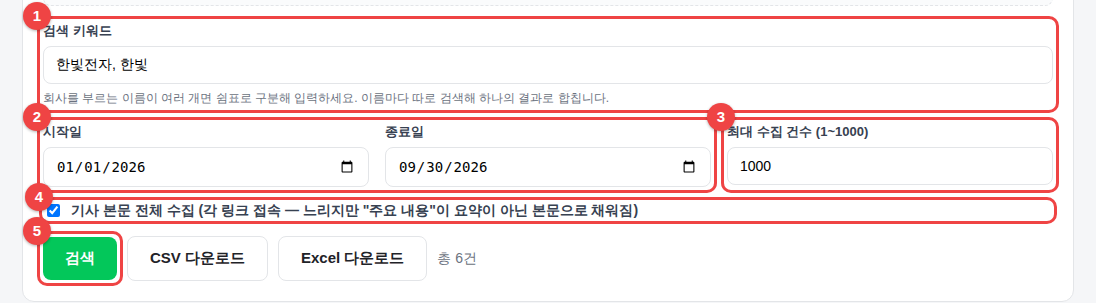
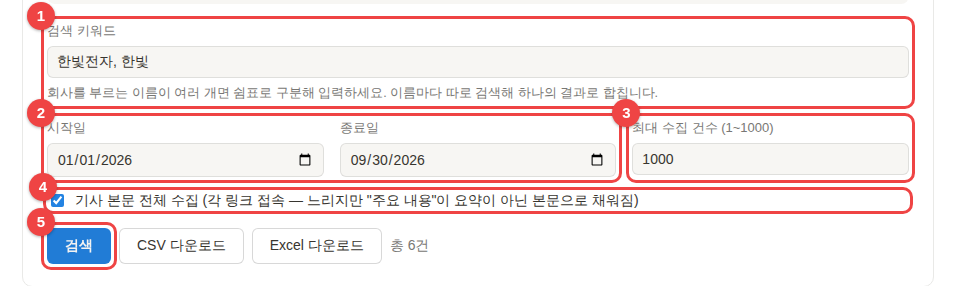
Notion-style UI refresh; guide notes results need a final review
Claude-Session: https://claude.ai/code/session_01SBpiC4RSoDx8bXpzWaJpnj

Changed region(s): [[0.0, 0.0, 0.9707, 0.951], [0.364, 0.5315, 0.455, 0.5874], [0.3033, 0.5315, 0.3337, 0.5874]]

diff --git a/docs/index.html b/docs/index.html
@@ -6,100 +6,117 @@
 <title>네이버 뉴스 검색 정리 툴</title>
 <link rel="icon" type="image/svg+xml" href="favicon.svg">
 <link rel="apple-touch-icon" href="apple-touch-icon.png">
-<meta name="theme-color" content="#03c75a">
+<meta name="theme-color" content="#ffffff">
+<link rel="stylesheet" href="https://cdn.jsdelivr.net/gh/orioncactus/pretendard@v1.3.9/dist/web/variable/pretendardvariable-dynamic-subset.min.css">
 <style>
-  :root { --brand:#03c75a; --bg:#f5f6f8; --line:#e3e5e8; --muted:#6b7280; }
+  /* 노션 느낌: 흰 바탕, 따뜻한 회색 글자·선, 절제된 강조색, 배경색 콜아웃 */
+  :root { --text:#37352f; --muted:#787774; --line:#e9e9e7; --hover:#f1f1ef; --soft:#f7f6f3;
+          --accent:#2383e2; --brand:#03c75a;
+          --purple:#6940a5; --purple-bg:#f6f3f9; --purple-line:#e4dcef;
+          --blue-bg:#e7f3f8; --blue-tx:#1f5f8b; --red-bg:#fdebec; --red-tx:#9f2f2d;
+          --yellow-bg:#fbf3db; --yellow-tx:#7a5a12; }
   * { box-sizing: border-box; }
   [hidden] { display:none !important; }
-  body { margin:0; font-family:-apple-system,BlinkMacSystemFont,"Malgun Gothic","맑은 고딕",sans-serif;
-         background:var(--bg); color:#1f2328; }
-  header { background:var(--brand); color:#fff; padding:18px 24px; font-size:20px; font-weight:700;
-           display:flex; align-items:center; gap:10px; }
-  header .logo { width:30px; height:30px; border-radius:7px; box-shadow:0 0 0 2px rgba(255,255,255,.55); }
-  .wrap { max-width:1100px; margin:0 auto; padding:24px; }
-  .card { background:#fff; border:1px solid var(--line); border-radius:12px; padding:20px; margin-bottom:20px; }
-  label { display:block; font-size:13px; font-weight:600; margin-bottom:6px; color:#374151; }
-  input[type=text],input[type=password],input[type=date],input[type=number] {
-    width:100%; padding:10px 12px; border:1px solid var(--line); border-radius:8px; font-size:14px; }
+  body { margin:0; background:#fff; color:var(--text); -webkit-font-smoothing:antialiased;
+         font-family:"Pretendard Variable",Pretendard,-apple-system,BlinkMacSystemFont,"Segoe UI","Malgun Gothic","맑은 고딕",sans-serif; }
+  .shell { max-width:960px; margin:0 auto; padding:0 24px; }
+  header.shell { padding-top:44px; padding-bottom:6px; }
+  header .logo { width:52px; height:52px; border-radius:12px; display:block; margin-bottom:14px; }
+  header h1 { margin:0; font-size:32px; font-weight:700; letter-spacing:-.02em; }
+  header .sub { margin-top:6px; color:var(--muted); font-size:15px; }
+  .wrap { max-width:960px; margin:0 auto; padding:24px 24px 64px; }
+  .card { background:#fff; border:1px solid var(--line); border-radius:10px; padding:22px 24px; margin-bottom:18px; }
+  label { display:block; font-size:13px; font-weight:500; margin-bottom:6px; color:var(--muted); }
+  input[type=text],input[type=password],input[type=date],input[type=number],select {
+    width:100%; padding:8px 10px; border:0; border-radius:6px; font:inherit; font-size:14px; color:var(--text);
+    background:var(--soft); box-shadow:inset 0 0 0 1px rgba(15,15,15,.1); transition:box-shadow .12s, background .12s; }
+  input:focus, select:focus { outline:0; background:#fff; box-shadow:inset 0 0 0 1px var(--accent), 0 0 0 3px rgba(35,131,226,.18); }
   .row { display:flex; gap:16px; flex-wrap:wrap; }
   .row > div { flex:1; min-width:160px; }
-  .cred { border:1px dashed var(--line); border-radius:8px; padding:14px; margin-bottom:16px; background:#fafbfc; }
-  summary { cursor:pointer; font-weight:600; font-size:13px; color:#374151; }
-  .chk { display:flex; align-items:center; gap:8px; margin-top:14px; font-size:14px; }
-  .chk input { width:auto; }
-  button { background:var(--brand); color:#fff; border:0; border-radius:8px; padding:12px 22px;
-           font-size:15px; font-weight:700; cursor:pointer; }
-  button:disabled { opacity:.5; cursor:not-allowed; }
-  button.ghost { background:#fff; color:#1f2328; border:1px solid var(--line); }
-  .actions { display:flex; gap:10px; align-items:center; margin-top:16px; flex-wrap:wrap; }
-  .hint { font-size:12px; color:var(--muted); margin-top:6px; }
-  .warn { background:#fff7ed; border:1px solid #fed7aa; color:#9a3412; padding:12px; border-radius:8px;
-          font-size:13px; margin-bottom:16px; }
-  table { width:100%; border-collapse:collapse; font-size:13px; }
-  th,td { border-bottom:1px solid var(--line); padding:10px; text-align:left; vertical-align:top; }
-  th { background:#f9fafb; font-size:12px; color:var(--muted); position:sticky; top:0; }
-  td.body { max-width:480px; white-space:pre-wrap; color:#374151; }
+  .cred { border-radius:8px; padding:16px; margin-bottom:18px; background:var(--soft); }
+  .cred input { background:#fff; }
+  summary { cursor:pointer; font-weight:500; font-size:13px; color:var(--text); }
+  .chk { display:flex; align-items:center; gap:8px; margin-top:14px; font-size:14px; color:var(--text); }
+  .chk input { width:auto; accent-color:var(--accent); }
+  button { background:var(--accent); color:#fff; border:0; border-radius:6px; padding:9px 18px; font:inherit;
+           font-size:14px; font-weight:600; cursor:pointer; transition:background .12s, filter .12s; }
+  button:hover:not(:disabled) { filter:brightness(.94); }
+  button:disabled { opacity:.45; cursor:not-allowed; }
+  button.ghost { background:#fff; color:var(--text); box-shadow:inset 0 0 0 1px rgba(15,15,15,.16); font-weight:500; }
+  button.ghost:hover:not(:disabled) { background:var(--hover); filter:none; }
+  .actions { display:flex; gap:8px; align-items:center; margin-top:18px; flex-wrap:wrap; }
+  .hint { font-size:12.5px; color:var(--muted); margin-top:6px; line-height:1.55; }
+  .warn { background:var(--yellow-bg); color:var(--yellow-tx); padding:12px 14px; border-radius:6px;
+          font-size:13.5px; margin-bottom:16px; line-height:1.55; }
+  table { width:100%; border-collapse:collapse; font-size:13.5px; }
+  th,td { border-bottom:1px solid var(--line); padding:9px 12px; text-align:left; vertical-align:top; }
+  th { background:#fbfbfa; font-size:12px; font-weight:500; color:var(--muted); position:sticky; top:0; }
+  tbody tr:hover td { background:#fbfbfa; }
+  td.body { max-width:480px; white-space:pre-wrap; color:#54524c; }
   .tablewrap { max-height:560px; overflow:auto; border:1px solid var(--line); border-radius:8px; }
-  a { color:#0969da; text-decoration:none; }
-  .spin { display:inline-block; width:16px; height:16px; border:2px solid #fff; border-top-color:transparent;
-          border-radius:50%; animation:sp .8s linear infinite; vertical-align:middle; }
+  a { color:var(--text); text-decoration:underline; text-decoration-color:rgba(55,53,47,.3); text-underline-offset:2px; }
+  a:hover { text-decoration-color:var(--text); }
+  .spin { display:inline-block; width:14px; height:14px; border:2px solid #fff; border-top-color:transparent;
+          border-radius:50%; animation:sp .8s linear infinite; vertical-align:-2px; }
   @keyframes sp { to { transform:rotate(360deg); } }
   .count { font-size:14px; color:var(--muted); }
-  select { width:100%; padding:10px 12px; border:1px solid var(--line); border-radius:8px; font-size:14px; background:#fff; }
-  h3 { margin:0 0 4px; font-size:16px; }
-  .stats { font-size:13px; color:#374151; background:#f9fafb; border:1px solid var(--line); border-radius:8px;
-           padding:10px 12px; margin-top:14px; }
-  /* AI 분석용 내보내기: 검색(흰색)과 구분되도록 보라색 계열 음영 */
-  .card.ai { background:#f5f3ff; border-color:#ddd6fe; }
-  .card.ai h3 { color:#5b21b6; }
-  .card.ai input, .card.ai select { border-color:#ddd6fe; background:#fff; }
-  .card.ai .stats { background:#fff; border-color:#ddd6fe; }
-  .card.ai button { background:#7c3aed; }
-  .card.ai button.ghost { background:#fff; color:#5b21b6; border-color:#c4b5fd; }
-  /* 배포용(corp) 모드: 탭 / 키 입력 / 이용 안내 */
-  .tabs { background:#fff; border-bottom:1px solid var(--line); padding:0 24px; display:flex; gap:4px; }
-  .tabs button { background:none; color:var(--muted); border:0; border-bottom:3px solid transparent; border-radius:0;
-                 padding:14px 16px; font-size:15px; }
-  .tabs button.active { color:#1f2328; border-bottom-color:var(--brand); }
-  .keyok { color:#047857; font-weight:600; }
-  .guide h2 { font-size:18px; margin:0 0 12px; }
-  .guide h4 { font-size:15px; margin:18px 0 6px; }
-  .guide p, .guide li { font-size:14px; line-height:1.7; color:#374151; }
-  .guide ol, .guide ul { padding-left:20px; margin:6px 0; }
-  .guide code { background:#f3f4f6; padding:1px 5px; border-radius:4px; font-size:13px; }
+  h2 { font-size:20px; font-weight:700; letter-spacing:-.01em; }
+  h3 { margin:0 0 4px; font-size:16px; font-weight:700; }
+  .stats { font-size:13px; color:var(--text); background:var(--soft); border-radius:6px; padding:10px 12px; margin-top:14px; }
+  /* AI 분석용 내보내기: 검색(흰색)과 구분되도록 연보라 배경 */
+  .card.ai { background:var(--purple-bg); border-color:var(--purple-line); }
+  .card.ai h3 { color:var(--purple); }
+  .card.ai input, .card.ai select { background:#fff; }
+  .card.ai .stats { background:#fff; }
+  .card.ai button { background:#8a63c6; }
+  .card.ai button.ghost { background:#fff; color:var(--purple); box-shadow:inset 0 0 0 1px var(--purple-line); }
+  /* 탭 */
+  .tabs { border-bottom:1px solid var(--line); }
+  .tabs .shell { display:flex; gap:2px; }
+  .tabs button { background:none; color:var(--muted); border-radius:0; border-bottom:2px solid transparent;
+                 padding:12px 10px 10px; font-size:14px; font-weight:500; margin-bottom:-1px; }
+  .tabs button:hover { color:var(--text); filter:none; background:none; }
+  .tabs button.active { color:var(--text); border-bottom-color:var(--text); font-weight:600; }
+  .keyok { color:#2b7a4b; font-weight:600; }
+  /* 이용 안내 */
+  .guide h2 { margin:0 0 12px; }
+  .guide h4 { font-size:15px; font-weight:600; margin:22px 0 6px; }
+  .guide p, .guide li { font-size:14.5px; line-height:1.75; }
+  .guide ol, .guide ul { padding-left:22px; margin:6px 0; }
+  code { background:rgba(135,131,120,.15); color:#eb5757; padding:1px 5px; border-radius:4px; font-size:.88em;
+         font-family:SFMono-Regular,Menlo,Consolas,monospace; }
   .guide table { margin-top:8px; }
-  .shot { margin:10px 0 4px; }
-  .shot img { max-width:100%; border:1px solid var(--line); border-radius:8px; display:block; }
-  .shot .ph { border:2px dashed #cbd5e1; border-radius:8px; background:#f8fafc; color:#64748b; font-size:13px;
-              padding:28px 16px; text-align:center; }
-  .shot figcaption { font-size:12px; color:var(--muted); margin-top:6px; }
-  .note { background:#eff6ff; border:1px solid #bfdbfe; color:#1e3a8a; padding:12px; border-radius:8px; font-size:13px; line-height:1.6; }
-  .note.must { background:#fef2f2; border-color:#fecaca; color:#991b1b; }
+  .shot { margin:12px 0 6px; }
+  .shot img { max-width:100%; border:1px solid var(--line); border-radius:6px; display:block; }
+  .shot .ph { border-radius:6px; background:var(--soft); color:var(--muted); font-size:13px; padding:28px 16px; text-align:center; }
+  .shot figcaption { font-size:12.5px; color:var(--muted); margin-top:6px; }
+  /* 콜아웃 */
+  .note { background:var(--blue-bg); color:var(--blue-tx); padding:12px 14px; border-radius:6px; font-size:13.5px; line-height:1.65; }
+  .note.must { background:var(--red-bg); color:var(--red-tx); }
+  .note.check { background:var(--yellow-bg); color:var(--yellow-tx); margin-top:14px; }
   /* 이용 안내: 3단계 흐름 */
-  .flow { display:flex; align-items:stretch; gap:8px; margin:6px 0 4px; flex-wrap:wrap; }
-  .flow .step { flex:1; min-width:200px; border-radius:10px; padding:14px 16px; border:1px solid var(--line); background:#fff; }
-  .flow .step.s2 { background:#f5f3ff; border-color:#ddd6fe; }
-  .flow .arrow { align-self:center; color:#9ca3af; font-size:22px; }
-  .flow .num { display:inline-block; width:24px; height:24px; line-height:24px; text-align:center; border-radius:50%;
-               background:var(--brand); color:#fff; font-weight:700; font-size:13px; margin-right:6px; }
-  .flow .s2 .num { background:#7c3aed; }
-  .flow .s3 .num { background:#4b5563; }
-  .flow .title { font-weight:700; font-size:15px; }
-  .flow .desc { font-size:13px; color:#4b5563; margin-top:6px; line-height:1.5; }
-  .stephead { display:flex; align-items:center; gap:8px; }
-  .stephead .num { width:28px; height:28px; line-height:28px; text-align:center; border-radius:50%; background:var(--brand);
-                   color:#fff; font-weight:700; }
-  .stephead.v .num { background:#7c3aed; }
-  .stephead.g .num { background:#4b5563; }
-  @media (max-width: 720px) { .flow .arrow { display:none; } }
+  .flow { display:flex; align-items:stretch; gap:8px; margin:8px 0 4px; flex-wrap:wrap; }
+  .flow .step { flex:1; min-width:200px; border-radius:8px; padding:14px 16px; border:1px solid var(--line); background:#fff; }
+  .flow .step.s2 { background:var(--purple-bg); border-color:var(--purple-line); }
+  .flow .arrow { align-self:center; color:#c3c2bf; font-size:20px; }
+  .num { display:inline-flex; align-items:center; justify-content:center; width:22px; height:22px; border-radius:6px;
+         background:var(--text); color:#fff; font-weight:700; font-size:12px; margin-right:8px; vertical-align:1px; }
+  .flow .s1 .num, .stephead.s .num { background:var(--brand); }
+  .flow .s2 .num, .stephead.v .num { background:#8a63c6; }
+  .flow .title { font-weight:600; font-size:15px; }
+  .flow .desc { font-size:13px; color:var(--muted); margin-top:8px; line-height:1.55; }
+  .stephead { display:flex; align-items:center; margin-bottom:4px; }
+  .stephead .num { width:26px; height:26px; font-size:13px; margin-right:10px; }
+  @media (max-width: 720px) { .flow .arrow { display:none; } header.shell { padding-top:28px; } header h1 { font-size:26px; } }
 </style>
 </head>
 <body>
-<header><img src="favicon.svg" alt="" class="logo">네이버 뉴스 검색 정리 툴</header>
-<nav class="tabs" id="tabs" hidden>
+<header class="shell"><img src="favicon.svg" alt="" class="logo"><h1>네이버 뉴스 검색 정리 툴</h1>
+  <div class="sub">회사 이름으로 기간 내 뉴스를 모으고, AI 이슈 분석용 파일까지 한 번에 만듭니다.</div></header>
+<nav class="tabs" id="tabs" hidden><div class="shell">
   <button type="button" data-tab="search" class="active">검색</button>
   <button type="button" data-tab="guide">이용 안내</button>
-</nav>
+</div></nav>
 <div class="wrap" id="tabSearch">
 
   <div class="card">
@@ -235,7 +252,7 @@
   </div>
 
   <div class="card">
-    <div class="stephead"><span class="num">1</span><h2 style="margin:0">검색</h2></div>
+    <div class="stephead s"><span class="num">1</span><h2 style="margin:0">검색</h2></div>
     <figure class="shot" data-src="step1-search.png"><figcaption>검색 탭 — 키워드 · 기간 · 최대 수집 건수 입력 후 검색</figcaption></figure>
     <ol>
       <li><b>검색 키워드</b>: 회사명을 입력합니다. 기사마다 부르는 이름이 다르면 쉼표로 여러 개 입력하세요 (예: <code>포스코인터내셔널, 포스코인터</code>).</li>
@@ -261,7 +278,7 @@
   </div>
 
   <div class="card">
-    <div class="stephead g"><span class="num">3</span><h2 style="margin:0">Copilot 에 업로드 &amp; 지시문 보내기</h2></div>
+    <div class="stephead"><span class="num">3</span><h2 style="margin:0">Copilot 에 업로드 &amp; 지시문 보내기</h2></div>
     <div class="note must" style="margin:10px 0">⚠ <b>모델은 반드시 Opus 로 선택하세요.</b> 다른 모델은 이슈 분류·요약 품질이 크게 떨어지거나 지시한 형식을 지키지 않을 수 있습니다.</div>
     <figure class="shot" data-src="step3-copilot.png"><figcaption>Copilot — ① 모델 선택 ② Claude → Opus ③ JSON 첨부 ④ 지시문 붙여넣기 ⑤ 보내기</figcaption></figure>
     <p>Copilot 에서 <b>새 대화</b>를 열고 그림의 번호 순서대로 진행합니다.</p>
@@ -273,6 +290,10 @@
       <li><b>보내기</b>를 누릅니다.</li>
     </ol>
     <p>잠시 뒤 이슈별 <b>일자 · 이슈 · 요약 · 대표 기사 링크</b>가 표와 엑셀 파일로 나옵니다. (엑셀을 못 만드는 환경이면 CSV 로 나옵니다)</p>
+    <div class="note check">🔍 <b>결과물은 마지막에 꼭 검토하세요.</b> 이 툴은 <b>회사 이름이 들어간 기사를 모두</b> 모으기 때문에,
+      회사와 직접 관련 없는 기사(다른 회사 기사에 이름만 스친 경우, 동명이인·비슷한 이름 등)가 섞이거나,
+      AI 가 이슈를 잘못 묶거나 요약을 부정확하게 할 수 있습니다. 보고에 쓰기 전에
+      <b>대표 기사 링크를 열어 내용과 일자를 확인</b>하고, 관계없는 이슈는 지우거나 고쳐 주세요.</div>
   </div>
 
   <div class="card corp-only" id="setup">
@@ -519,7 +540,7 @@
       const lists = [], warnings = [], errors = [];
       for (let i = 0; i < keywords.length; i++) {
         const kw = keywords[i];
-        setStatus('<span class="spin" style="border-color:#6b7280;border-top-color:transparent"></span> ' +
+        setStatus('<span class="spin" style="border-color:#787774;border-top-color:transparent"></span> ' +
           (keywords.length > 1 ? '"' + esc(kw) + '" 검색 중… (' + (i + 1) + '/' + keywords.length + ')' : '검색 중…'));
         const prefix = keywords.length > 1 ? '[' + kw + '] ' : '';
         try {
@@ -563,7 +584,7 @@
     const batches = [];
     for (let i = 0; i < ARTICLES.length; i += BODY_BATCH) batches.push(ARTICLES.slice(i, i + BODY_BATCH));
     let done = 0, failed = 0, next = 0;
-    const progress = () => setStatus('<span class="spin" style="border-color:#6b7280;border-top-color:transparent"></span> 본문 수집 중… ' + done + ' / ' + ARTICLES.length);
+    const progress = () => setStatus('<span class="spin" style="border-color:#787774;border-top-color:transparent"></span> 본문 수집 중… ' + done + ' / ' + ARTICLES.length);
     progress();
 
     async function worker() {
